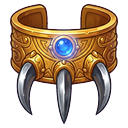
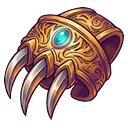
art: yeni sanat yonu ile yenilenen gorseller

diff --git a/sw.js b/sw.js
@@ -1,5 +1,5 @@
 // Çevrimdışı çalışma: kod ve sayfa önce ağdan (güncel sürüm), görseller önce önbellekten.
-const CACHE = 'hexling-v159';
+const CACHE = 'hexling-v160';
 const CORE = ['index.html', 'manifest.webmanifest', 'dist/main.js', 'dist/minis.js', 'dist/game.js', 'dist/data.js', 'dist/audio.js', 'dist/settings.js', 'dist/i18n.js', 'dist/scenery.js', 'dist/version.js', 'dist/billing.js', 'dist/ads.js', 'dist/fight.js', 'dist/hof.js', 'dist/house.js', 'dist/meta.js', 'dist/quests.js', 'dist/story.js', 'dist/tiger.js', 'dist/notify.js', 'dist/mine.js', 'dist/mine3d.js', 'vendor/three.min.js', 'assets/manifest.json', 'assets/title_bg.jpg', 'assets/arena_bg.jpg', 'icons/icon-192.png'];
 
 self.addEventListener('install', (e) => {
